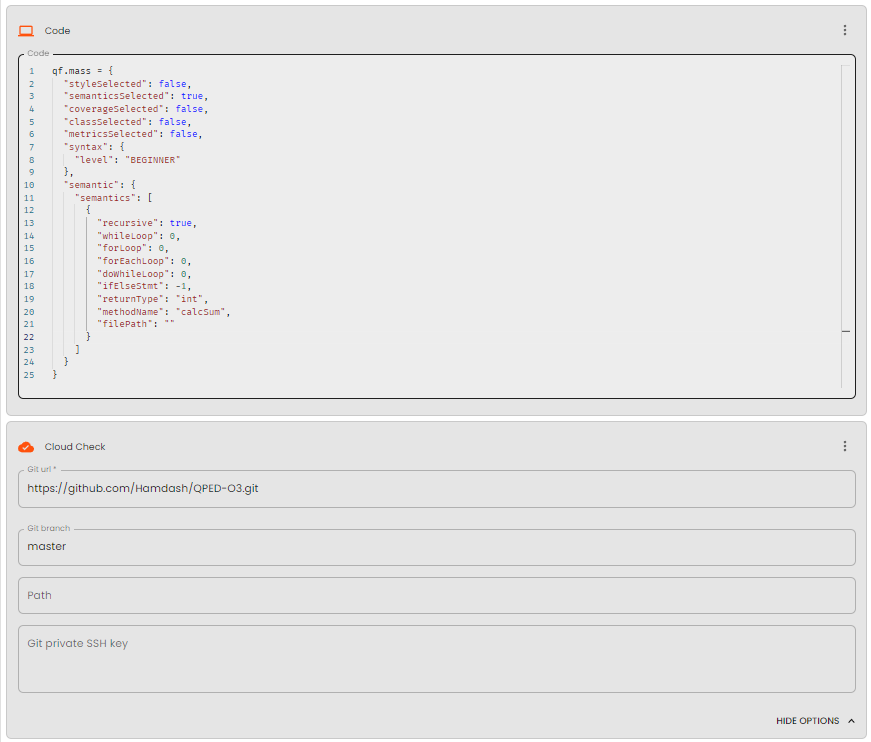
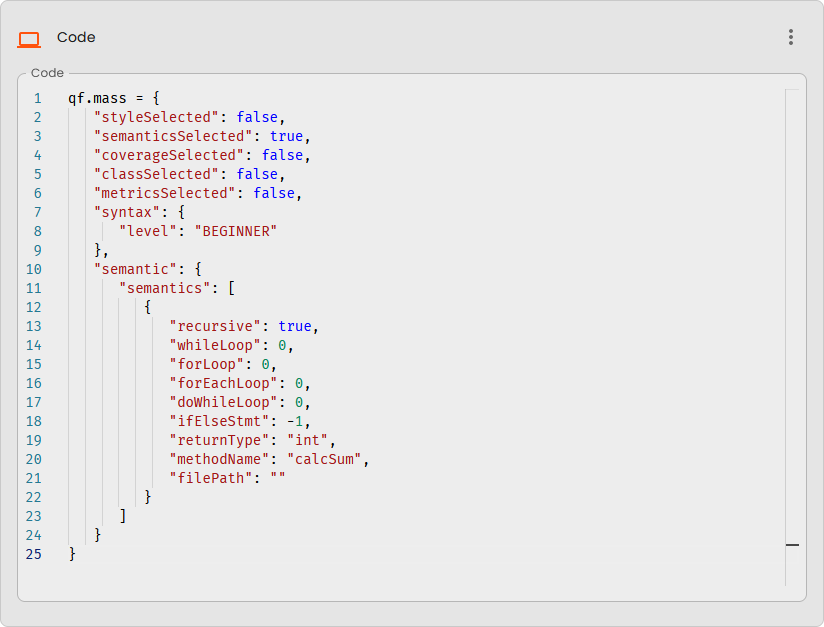
Updated tutorials with latest screencaps from Quarterfall

Changed region(s): [[0.0, 0.0, 1.0, 1.0], [0.2427, 0.3636, 0.3337, 0.3939]]

diff --git a/src/markdown/qped-style.md b/src/markdown/qped-style.md
@@ -135,6 +135,7 @@ In this Code action, enter `qf.mass = ` and paste the configuration you just cop
 The Quartefall Feedback actions should now look like this (depending on your method of copying, the JSON object may have not been copied with indentations or line breaks, so we included these for better readability):
 
 ![Mass configuration Quarterfall Cloud check action finished.](images/style_quarterfall-finished.png)
+![Screenshot of the Cloud Check Action in Quarterfall.](images/quarterfall_cloudcheck-action.png)
 
 
 

diff --git a/src/markdown/qped-semantics.md b/src/markdown/qped-semantics.md
@@ -150,3 +150,4 @@ In this Code action, enter `qf.mass = ` and paste the configuration you just cop
 The Quartefall Feedback actions should now look like this (depending on your method of copying, the JSON object may have not been copied with indentations or line breaks, so we included these for better readability):
 
 ![Mass configuration Quarterfall Cloud check action finished.](images/solution_quarterfall-finished.png)
+![Screenshot of the Cloud Check Action in Quarterfall.](images/quarterfall_cloudcheck-action.png)
